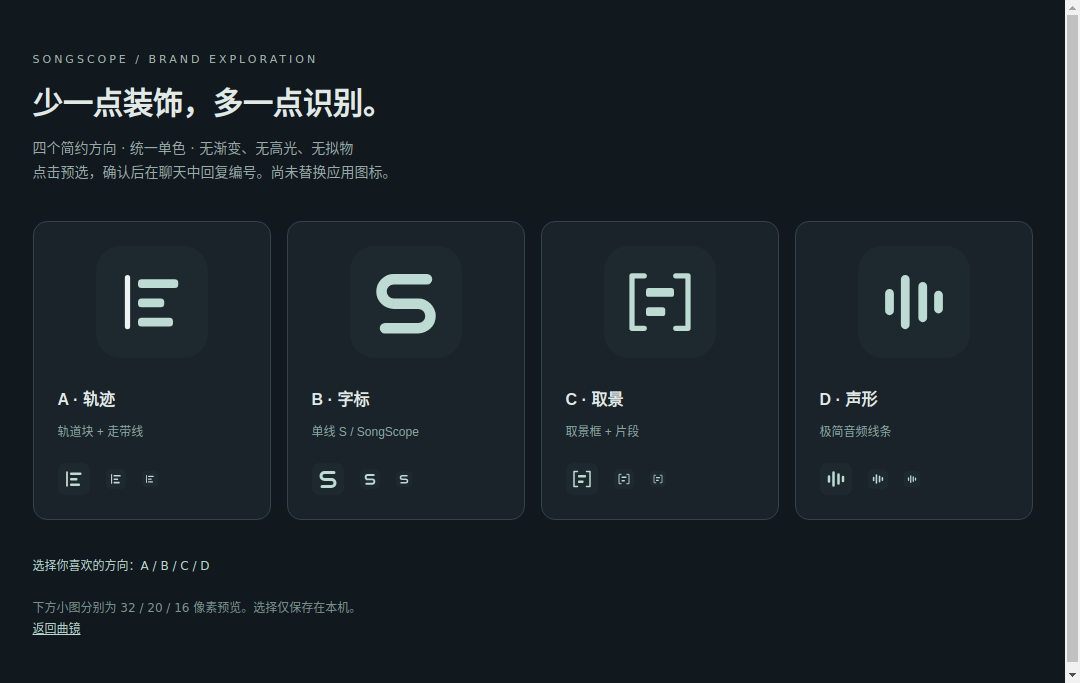
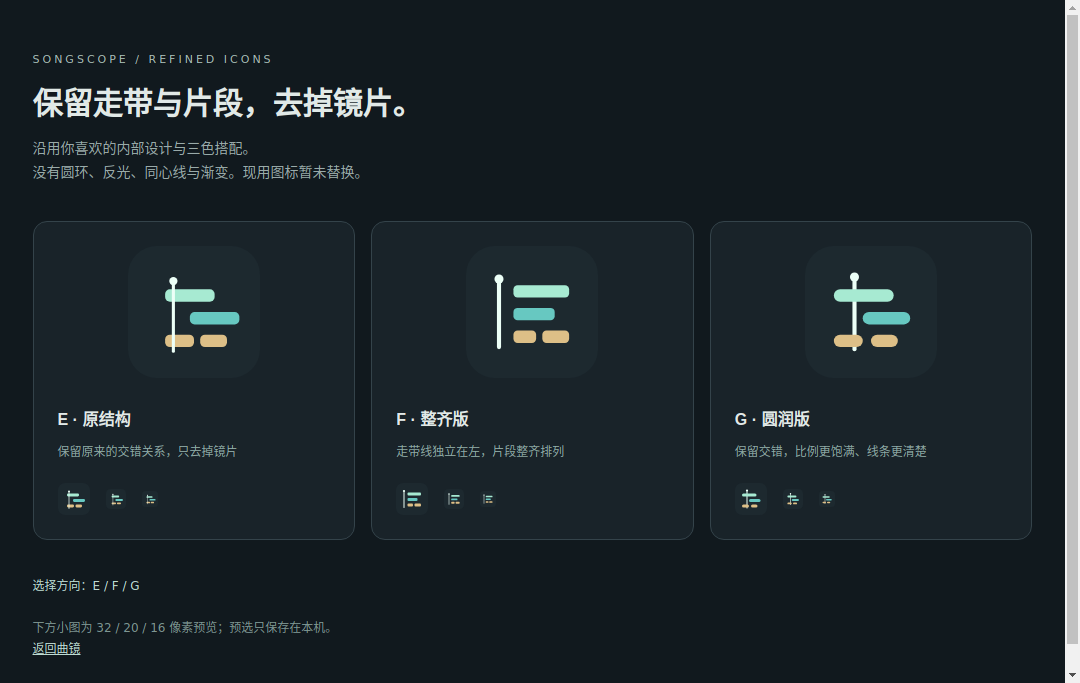
design: keep colorful MIDI motif and remove lens decoration in three refined candidates

diff --git a/public/icons.html b/public/icons.html
@@ -1,1 +1,1 @@
-<!doctype html><html lang="zh-CN"><meta charset="UTF-8"><meta name="viewport" content="width=device-width, initial-scale=1"><title>曲镜 · 图标候选</title><style>*{box-sizing:border-box}body{margin:0;background:#11191e;color:#e1e9e7;font-family:system-ui,sans-serif;padding:48px 32px}main{max-width:1000px;margin:auto}small{color:#a7bcb5;letter-spacing:3px;font-size:11px}h1{font-size:30px;margin:12px 0}header p{color:#99aaa9;font-size:14px;line-height:1.7}.grid{display:grid;grid-template-columns:repeat(4,1fr);gap:16px;margin:36px 0}.option{background:#192329;color:inherit;border:1px solid #34434a;border-radius:14px;text-align:left;padding:24px;cursor:pointer}.option:hover,.option.selected{border-color:#bddbd2;background:#23343b}.large{width:112px;height:112px;display:block;margin:0 auto 28px}h2{font-size:16px;margin:8px 0}p{color:#8eaaa5;font-size:12px}.sizes{display:flex;gap:16px;align-items:center;margin-top:24px}#choice{min-height:30px;color:#bddbd2}footer{font-size:12px;color:#7e9692;line-height:1.8}a{color:#bddbd2}@media(max-width:700px){body{padding:28px 18px}.grid{grid-template-columns:repeat(2,1fr)}.option{padding:18px}.large{width:82px;height:82px}h1{font-size:24px}}</style><main><header><small>SONGSCOPE / BRAND EXPLORATION</small><h1>少一点装饰，多一点识别。</h1><p>四个简约方向 · 统一单色 · 无渐变、无高光、无拟物<br>点击预选，确认后在聊天中回复编号。尚未替换应用图标。</p></header><div class="grid"><button class="option" data-choice="A" onclick="choose('A')"><img class="large" src="./brand/candidates/A.svg"/><h2>A · 轨迹</h2><p>轨道块 + 走带线</p><div class="sizes"><img width="32" src="./brand/candidates/A.svg"/><img width="20" src="./brand/candidates/A.svg"/><img width="16" src="./brand/candidates/A.svg"/></div></button><button class="option" data-choice="B" onclick="choose('B')"><img class="large" src="./brand/candidates/B.svg"/><h2>B · 字标</h2><p>单线 S / SongScope</p><div class="sizes"><img width="32" src="./brand/candidates/B.svg"/><img width="20" src="./brand/candidates/B.svg"/><img width="16" src="./brand/candidates/B.svg"/></div></button><button class="option" data-choice="C" onclick="choose('C')"><img class="large" src="./brand/candidates/C.svg"/><h2>C · 取景</h2><p>取景框 + 片段</p><div class="sizes"><img width="32" src="./brand/candidates/C.svg"/><img width="20" src="./brand/candidates/C.svg"/><img width="16" src="./brand/candidates/C.svg"/></div></button><button class="option" data-choice="D" onclick="choose('D')"><img class="large" src="./brand/candidates/D.svg"/><h2>D · 声形</h2><p>极简音频线条</p><div class="sizes"><img width="32" src="./brand/candidates/D.svg"/><img width="20" src="./brand/candidates/D.svg"/><img width="16" src="./brand/candidates/D.svg"/></div></button></div><p id="choice">选择你喜欢的方向：A / B / C / D</p><footer>下方小图分别为 32 / 20 / 16 像素预览。选择仅保存在本机。<br><a href="./">返回曲镜</a></footer></main><script>function choose(k){localStorage.setItem('songscope-icon-choice',k);document.querySelectorAll('.option').forEach(e=>e.classList.toggle('selected',e.dataset.choice===k));document.getElementById('choice').textContent='已预选 '+k+' · 请在聊天中回复这个编号，尚未应用。'}const k=localStorage.getItem('songscope-icon-choice');if(k)choose(k);</script></html>
+<!doctype html><html lang="zh-CN"><meta charset="UTF-8"><meta name="viewport" content="width=device-width, initial-scale=1"><title>曲镜 · 去镜片图标候选</title><style>*{box-sizing:border-box}body{margin:0;background:#11191e;color:#e1e9e7;font-family:system-ui,sans-serif;padding:48px 32px}main{max-width:1000px;margin:auto}small{color:#a7bcb5;letter-spacing:3px;font-size:11px}h1{font-size:30px;margin:12px 0}header p{color:#99aaa9;font-size:14px;line-height:1.7}.grid{display:grid;grid-template-columns:repeat(3,1fr);gap:16px;margin:36px 0}.option{background:#192329;color:inherit;border:1px solid #34434a;border-radius:14px;text-align:left;padding:24px;cursor:pointer}.option:hover,.option.selected{border-color:#bddbd2;background:#23343b}.large{width:132px;height:132px;display:block;margin:0 auto 28px}h2{font-size:16px;margin:8px 0}p{color:#8eaaa5;font-size:12px}.sizes{display:flex;gap:16px;align-items:center;margin-top:24px}#choice{min-height:30px;color:#bddbd2}footer{font-size:12px;color:#7e9692;line-height:1.8}a{color:#bddbd2}@media(max-width:700px){body{padding:28px 18px}.grid{grid-template-columns:repeat(2,1fr)}.option{padding:18px}.large{width:82px;height:82px}h1{font-size:24px}}@media(max-width:700px){.grid{grid-template-columns:1fr}.option{display:grid;grid-template-columns:90px 1fr;column-gap:20px}.large{grid-row:1/4;margin:0}.sizes{margin-top:10px}}</style><main><header><small>SONGSCOPE / REFINED ICONS</small><h1>保留走带与片段，去掉镜片。</h1><p>沿用你喜欢的内部设计与三色搭配。<br>没有圆环、反光、同心线与渐变。现用图标暂未替换。</p></header><div class="grid"><button class="option" data-choice="E" onclick="choose('E')"><img class="large" src="./brand/candidates/E.svg"/><h2>E · 原结构</h2><p>保留原来的交错关系，只去掉镜片</p><div class="sizes"><img width="32" src="./brand/candidates/E.svg"/><img width="20" src="./brand/candidates/E.svg"/><img width="16" src="./brand/candidates/E.svg"/></div></button><button class="option" data-choice="F" onclick="choose('F')"><img class="large" src="./brand/candidates/F.svg"/><h2>F · 整齐版</h2><p>走带线独立在左，片段整齐排列</p><div class="sizes"><img width="32" src="./brand/candidates/F.svg"/><img width="20" src="./brand/candidates/F.svg"/><img width="16" src="./brand/candidates/F.svg"/></div></button><button class="option" data-choice="G" onclick="choose('G')"><img class="large" src="./brand/candidates/G.svg"/><h2>G · 圆润版</h2><p>保留交错，比例更饱满、线条更清楚</p><div class="sizes"><img width="32" src="./brand/candidates/G.svg"/><img width="20" src="./brand/candidates/G.svg"/><img width="16" src="./brand/candidates/G.svg"/></div></button></div><p id="choice">选择方向：E / F / G</p><footer>下方小图为 32 / 20 / 16 像素预览；预选只保存在本机。<br><a href="./">返回曲镜</a></footer></main><script>function choose(k){localStorage.setItem('songscope-icon-choice',k);document.querySelectorAll('.option').forEach(e=>e.classList.toggle('selected',e.dataset.choice===k));document.getElementById('choice').textContent='已预选 '+k+' · 请在聊天中回复这个编号，尚未应用。'}const k=localStorage.getItem('songscope-icon-choice');if(['E','F','G'].includes(k))choose(k);</script></html>

diff --git a/scripts/make-icon-options.py b/scripts/make-icon-options.py
@@ -1,0 +1,17 @@
+from pathlib import Path
+root=Path(__file__).resolve().parent.parent/'public'
+variants={
+'E':'''<rect x="18" y="21" width="24" height="6" rx="2.3" fill="#a7ead2"/><rect x="30" y="32" width="24" height="6" rx="2.3" fill="#67c8c1"/><rect x="18" y="43" width="14" height="6" rx="2.3" fill="#ddbf87"/><rect x="35" y="43" width="13" height="6" rx="2.3" fill="#ddbf87"/><path d="M22 17v34" stroke="#ecfff7" stroke-width="1.5" stroke-linecap="round"/><circle cx="22" cy="17" r="2" fill="#ecfff7"/>''',
+'F':'''<path d="M16 16v33" stroke="#ecfff7" stroke-width="2" stroke-linecap="round"/><circle cx="16" cy="16" r="2.2" fill="#ecfff7"/><rect x="23" y="19" width="27" height="6" rx="2" fill="#a7ead2"/><rect x="23" y="30" width="20" height="6" rx="2" fill="#67c8c1"/><rect x="23" y="41" width="11" height="6" rx="2" fill="#ddbf87"/><rect x="37" y="41" width="13" height="6" rx="2" fill="#ddbf87"/>''',
+'G':'''<path d="M24 15v35" stroke="#ecfff7" stroke-width="2" stroke-linecap="round"/><circle cx="24" cy="15" r="2.2" fill="#ecfff7"/><rect x="14" y="21" width="29" height="6" rx="3" fill="#a7ead2"/><rect x="28" y="32" width="23" height="6" rx="3" fill="#67c8c1"/><rect x="14" y="43" width="14" height="6" rx="3" fill="#ddbf87"/><rect x="32" y="43" width="13" height="6" rx="3" fill="#ddbf87"/>'''
+}
+labels={'E':('原结构','保留原来的交错关系，只去掉镜片'),'F':('整齐版','走带线独立在左，片段整齐排列'),'G':('圆润版','保留交错，比例更饱满、线条更清楚')}
+for k,shape in variants.items():
+ (root/f'brand/candidates/{k}.svg').write_text(f'<svg xmlns="http://www.w3.org/2000/svg" viewBox="0 0 64 64"><rect width="64" height="64" rx="14" fill="#1d292f"/>{shape}</svg>')
+old=(root/'icons.html').read_text()
+style=old.split('<style>',1)[1].split('</style>',1)[0]
+style=style.replace('repeat(4,1fr)','repeat(3,1fr)').replace('112px','132px')
+style+='@media(max-width:700px){.grid{grid-template-columns:1fr}.option{display:grid;grid-template-columns:90px 1fr;column-gap:20px}.large{grid-row:1/4;margin:0}.sizes{margin-top:10px}}'
+cards=''.join(f'<button class="option" data-choice="{k}" onclick="choose(\'{k}\')"><img class="large" src="./brand/candidates/{k}.svg"/><h2>{k} · {labels[k][0]}</h2><p>{labels[k][1]}</p><div class="sizes"><img width="32" src="./brand/candidates/{k}.svg"/><img width="20" src="./brand/candidates/{k}.svg"/><img width="16" src="./brand/candidates/{k}.svg"/></div></button>' for k in variants)
+script="""function choose(k){localStorage.setItem('songscope-icon-choice',k);document.querySelectorAll('.option').forEach(e=>e.classList.toggle('selected',e.dataset.choice===k));document.getElementById('choice').textContent='已预选 '+k+' · 请在聊天中回复这个编号，尚未应用。'}const k=localStorage.getItem('songscope-icon-choice');if(['E','F','G'].includes(k))choose(k);"""
+(root/'icons.html').write_text(f'''<!doctype html><html lang="zh-CN"><meta charset="UTF-8"><meta name="viewport" content="width=device-width, initial-scale=1"><title>曲镜 · 去镜片图标候选</title><style>{style}</style><main><header><small>SONGSCOPE / REFINED ICONS</small><h1>保留走带与片段，去掉镜片。</h1><p>沿用你喜欢的内部设计与三色搭配。<br>没有圆环、反光、同心线与渐变。现用图标暂未替换。</p></header><div class="grid">{cards}</div><p id="choice">选择方向：E / F / G</p><footer>下方小图为 32 / 20 / 16 像素预览；预选只保存在本机。<br><a href="./">返回曲镜</a></footer></main><script>{script}</script></html>''')

diff --git a/README.md b/README.md
@@ -120,7 +120,9 @@ SONG=/path/to/example.song xvfb-run -a node_modules/.bin/electron --no-sandbox s
 
 ## 图标待选
 
-现用图标尚未替换。A「轨迹」、B「字标」、C「取景」、D「声形」四个简约方向见 `public/brand/candidates/`；`icons.html` 的预选仅存于本机，不会自动更换应用图标。
+现用图标尚未替换。最新候选 E「原结构」、F「整齐版」、G「圆润版」保留内部走带线与三色 MIDI 块，去掉镜片圆环、反光及同心线。见 `public/brand/candidates/` 和网页版 `icons.html`。
+
+候选页的预选只存于本机，不会自动更换应用图标。此前 A/B/C/D 的 SVG 仍保留作设计记录。运行 `python3 scripts/make-icon-options.py` 可重建当前三个候选及预览页。
 
 ---
 
